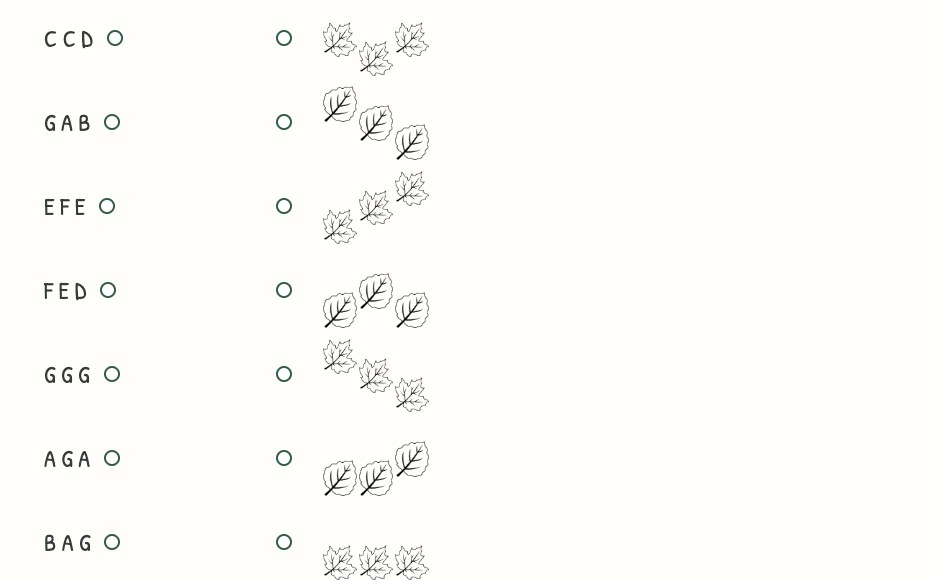
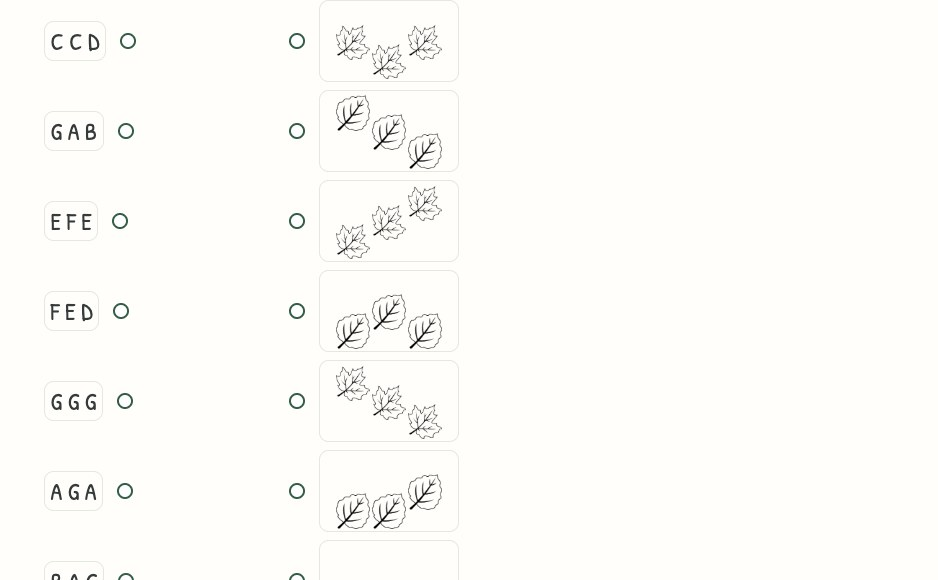
添加树叶浅框和唱名台阶练习

diff --git a/pitch_direction.css b/pitch_direction.css
@@ -117,3 +117,15 @@
 }
 .direction-example > img { width: 55px; height: auto; }
 .direction-example .leaf-contour { width: 80px; height: 45px; }
+
+.leaf-question .direction-notes,
+.leaf-option .leaf-contour {
+  border: 1px solid #e4e8de;
+  border-radius: .6rem;
+}
+.leaf-question .direction-notes { padding: .2rem .35rem; }
+.leaf-option .leaf-contour {
+  box-sizing: border-box;
+  height: 82px;
+  padding: 2px 3px;
+}

diff --git a/AGENTS.md b/AGENTS.md
@@ -216,12 +216,16 @@ page and its board preview in the catalog and runtime package.
 own catalog card. Read the letter cycle in both directions, including G to A
 when ascending and A to G when descending. P-010 keeps all seven source
 prompts and contour patterns. Tap the dots beside the note names and leaf group in either order to
-draw a line. Keep the groups unframed and maintain visible height differences
+draw a line. Use a faint outline around each letter group and leaf group, with
+both endpoint dots outside the outlines. Maintain visible height differences
 between adjacent levels. Accept either descending group for FED or BAG, with each group
 available for one match. Reassigning a group clears its old connection.
 P-011 keeps the twelve source prompts, including both instances of FED.
 Select or replace the direction directly using the original stair artwork.
 Keep the note letters visually larger than the stair controls and keep
-answer targets at least 44 CSS pixels.
+answer targets at least 44 CSS pixels. The separate solfège card adds
+`&notation=solfege` and uses lowercase fixed-do syllables in its questions,
+example, and accessible labels. The two editions use the same twelve
+sequences and direction answers.
 Both have session-only answers, shared profiles and speech, graduated
 assistance, and completion celebrations. Keep the original masters intact.

diff --git a/docs/progress_tracker.md b/docs/progress_tracker.md
@@ -33,6 +33,20 @@ scope and procedures still apply. Package `87c34cfec1d1` passed the two
 activity flows, catalog suite, 41 unit tests, and 138 responsive checks.
 Reviewed the phone captures and both catalog previews. Local only.
 
+### Faint contours and the solfège stair edition, November 26, 2026
+
+P-010 outlines each letter trio and leaf trio with a faint border while
+leaving the two connection dots outside. P-011 also opens as a separate
+fixed-do catalog entry with the same twelve sequences, direction answers,
+and option layout. The prompts, example, and accessible names use lowercase
+do, re, mi, fa, sol, la, si. For example, la–si–do goes up.
+
+Local package `10939269da00` passed all three activity flows, the 29-card
+catalog check, 41 unit tests, and 144 responsive cases. Covers were reviewed.
+Updated the Studio guide, overview, and development guide. Reviewed the
+responsive, provenance, games, and workspace guides for dependent changes.
+The parent tracker reflects the local catalog. Publication is pending.
+
 ## Under the Sea fixed-do edition, November 26, 2026
 
 “唱名版海底世界” is a separate catalog entry that reuses the P-007

diff --git a/docs/development.md b/docs/development.md
@@ -224,9 +224,10 @@ Run `BASE_URL=<runtime-directory-url> node tests/sea_neighbors_browser.mjs` for 
 ## P-010 and P-011 verification
 
 Run `BASE_URL=<runtime-directory-url> node tests/pitch_direction_browser.mjs`
-for both catalog links, 320px touch targets, both dot-selection orders,
+for all three catalog links, fixed-do labels and direction answers,
+320px touch targets, both dot-selection orders,
 leaf height difference, keyboard matching, blank and wrong
 submissions, third- and sixth-error hints, leaf reassignment and erasing,
-all correct answers, celebration, and reset. Both catalog entries also run
-in the full responsive matrix. Use `pitch-direction` and `pitch-stairs`
+all correct answers, celebration, and reset. All three catalog entries also run
+in the full responsive matrix. Use `pitch-direction`, `pitch-stairs`, and `pitch-stairs-solfege`
 with the catalog-preview script to refresh their individual covers.

diff --git a/README.md b/README.md
@@ -16,7 +16,7 @@ at home, in individual lessons, and in the classroom.
 | Intervals and chords | Distinguish whole and half steps and build note combinations on the keyboard |
 | Rhythm and composition | Combine note values to fill a measure and create playable rhythm patterns |
 
-The catalog brings 28 activities together. Choose a training area and open an
+The catalog brings 29 activities together. Choose a training area and open an
 exercise. Illustrated exercises reuse artwork from original teaching worksheets.
 Depending on the activity, learners can use spoken instructions, retry with hints,
 replay generated questions, or print a practice sheet.
